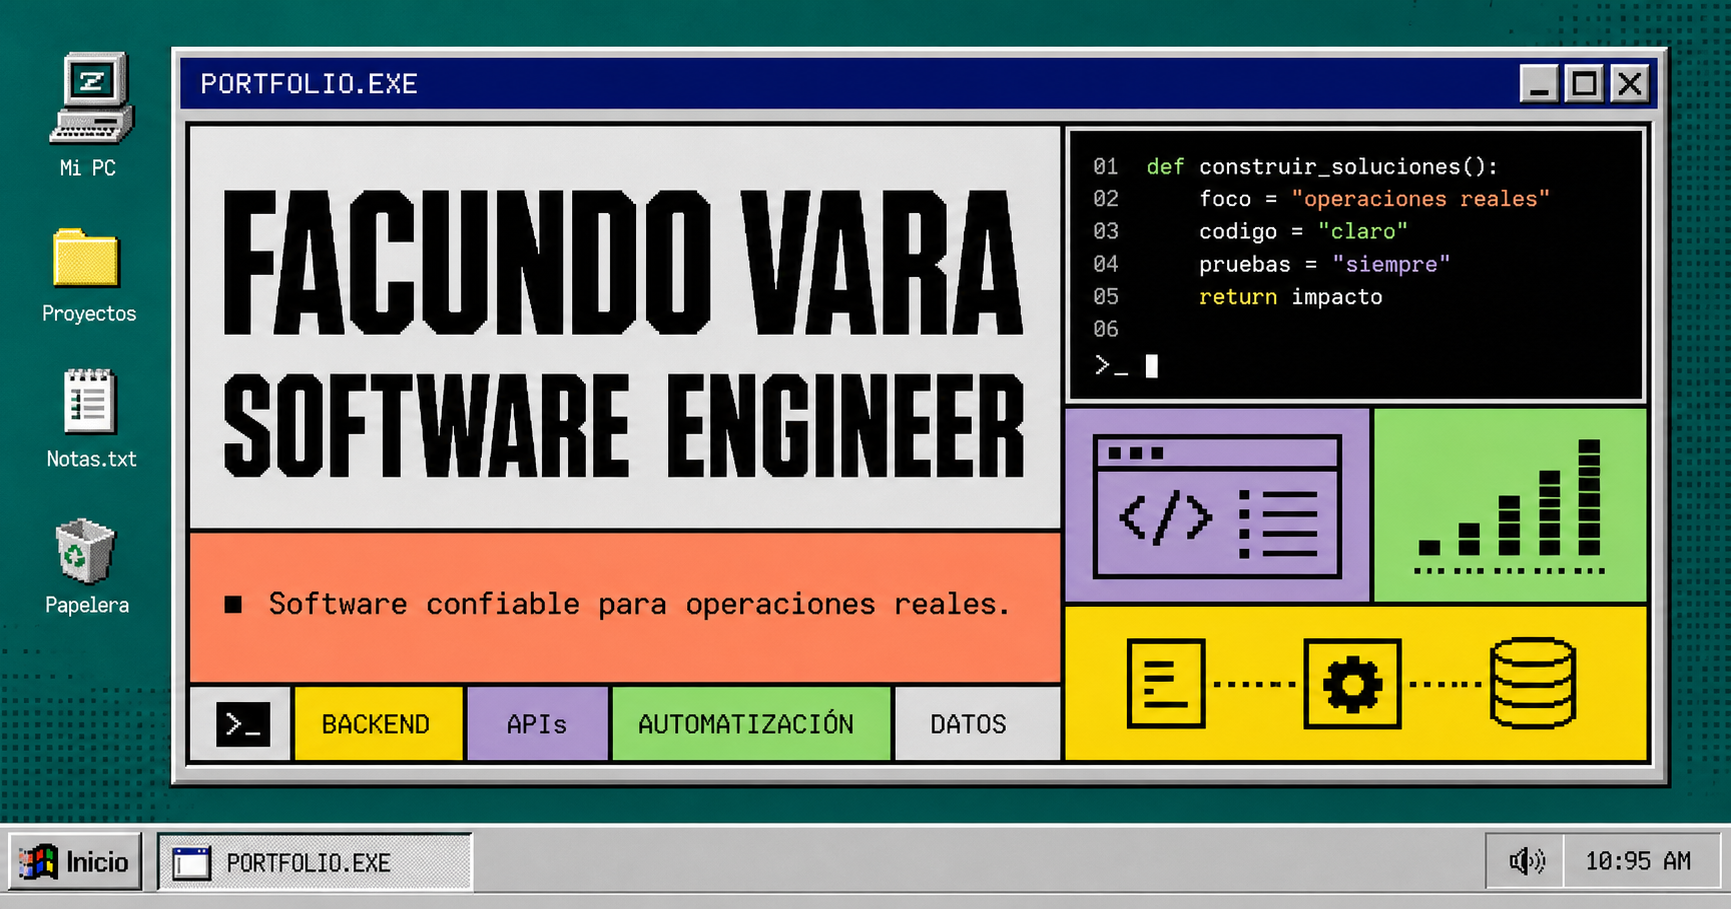
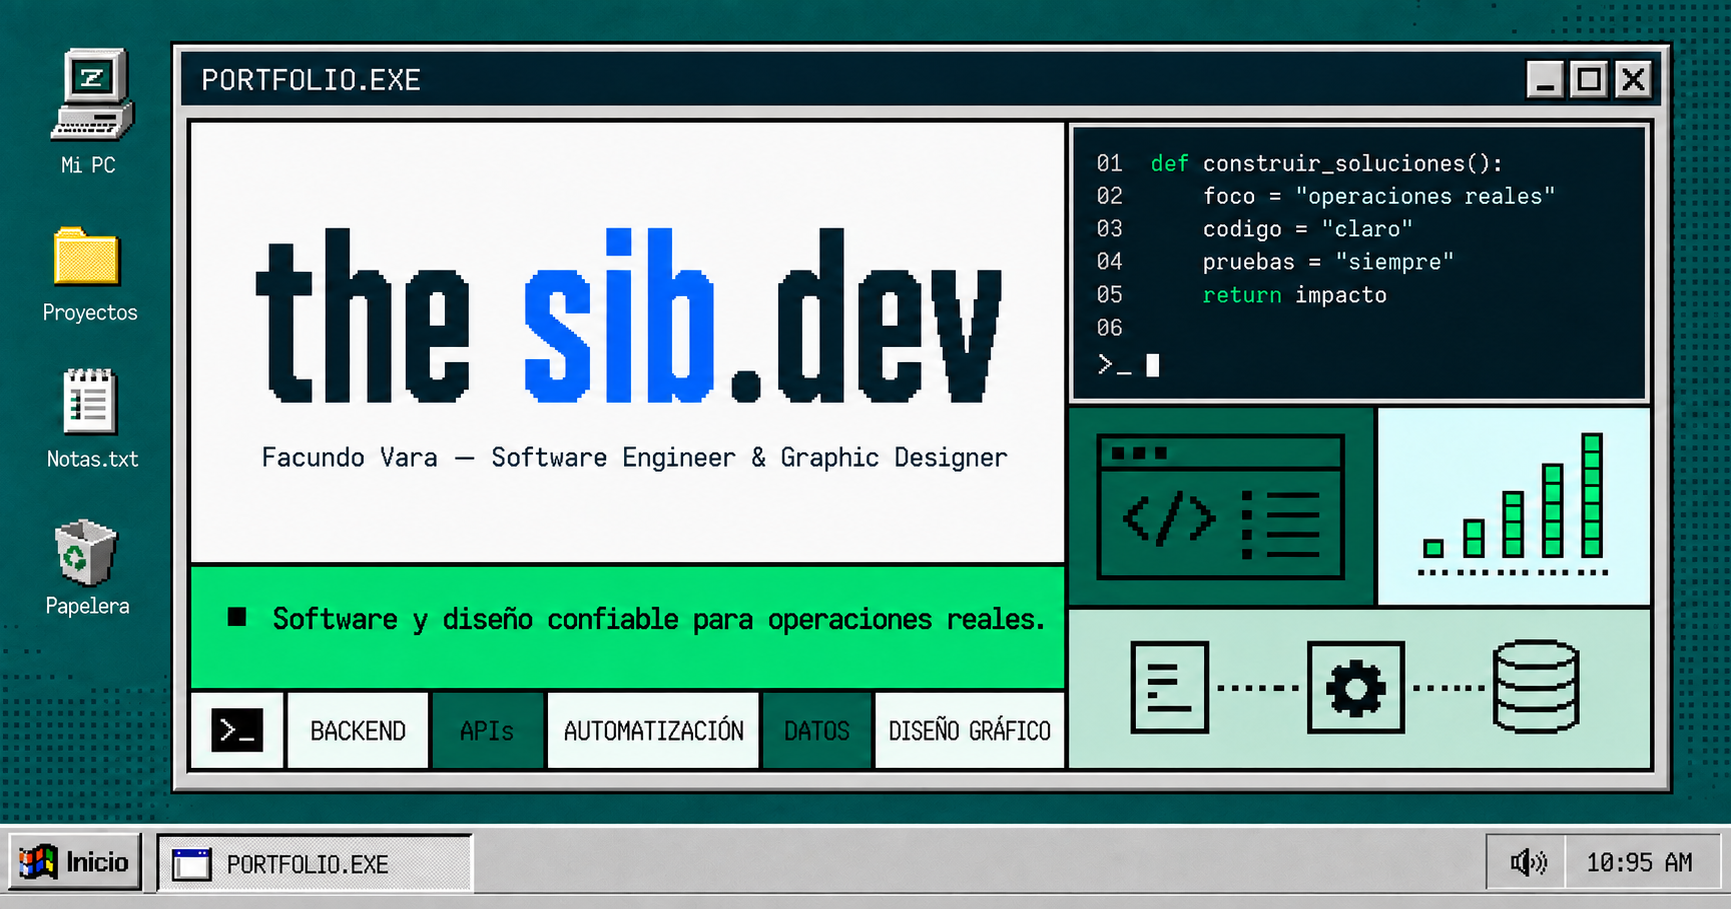
feat: refresh portfolio social preview

diff --git a/src/app/layout.tsx b/src/app/layout.tsx
@@ -32,10 +32,11 @@ export const metadata: Metadata = {
   metadataBase: new URL(siteUrl),
   title: "sib.dev",
   description:
-    "Portfolio de Facundo Vara, Software Engineer especializado en productos web, sistemas enterprise e integraciones para banca y fintech.",
+    "Portfolio de Facundo Vara, Software Engineer y Graphic Designer especializado en productos digitales, sistemas enterprise e identidad visual.",
   keywords: [
     "Software Engineer",
     "Full Stack Developer",
+    "Graphic Designer",
     "Angular",
     "C# .NET",
     "Java",
@@ -47,21 +48,21 @@ export const metadata: Metadata = {
   openGraph: {
     type: "website",
     locale: "es_AR",
-    title: "Facundo Vara | Software Engineer",
-    description: "Software confiable para operaciones reales.",
+    title: "Facundo Vara | Software Engineer & Graphic Designer",
+    description: "Software y diseño confiable para operaciones reales.",
     images: [
       {
         url: "/og.png",
         width: 1731,
         height: 909,
-        alt: "Portfolio de Facundo Vara, Software Engineer",
+        alt: "Portfolio de Facundo Vara, Software Engineer y Graphic Designer",
       },
     ],
   },
   twitter: {
     card: "summary_large_image",
-    title: "Facundo Vara | Software Engineer",
-    description: "Software confiable para operaciones reales.",
+    title: "Facundo Vara | Software Engineer & Graphic Designer",
+    description: "Software y diseño confiable para operaciones reales.",
     images: ["/og.png"],
   },
   robots: {
